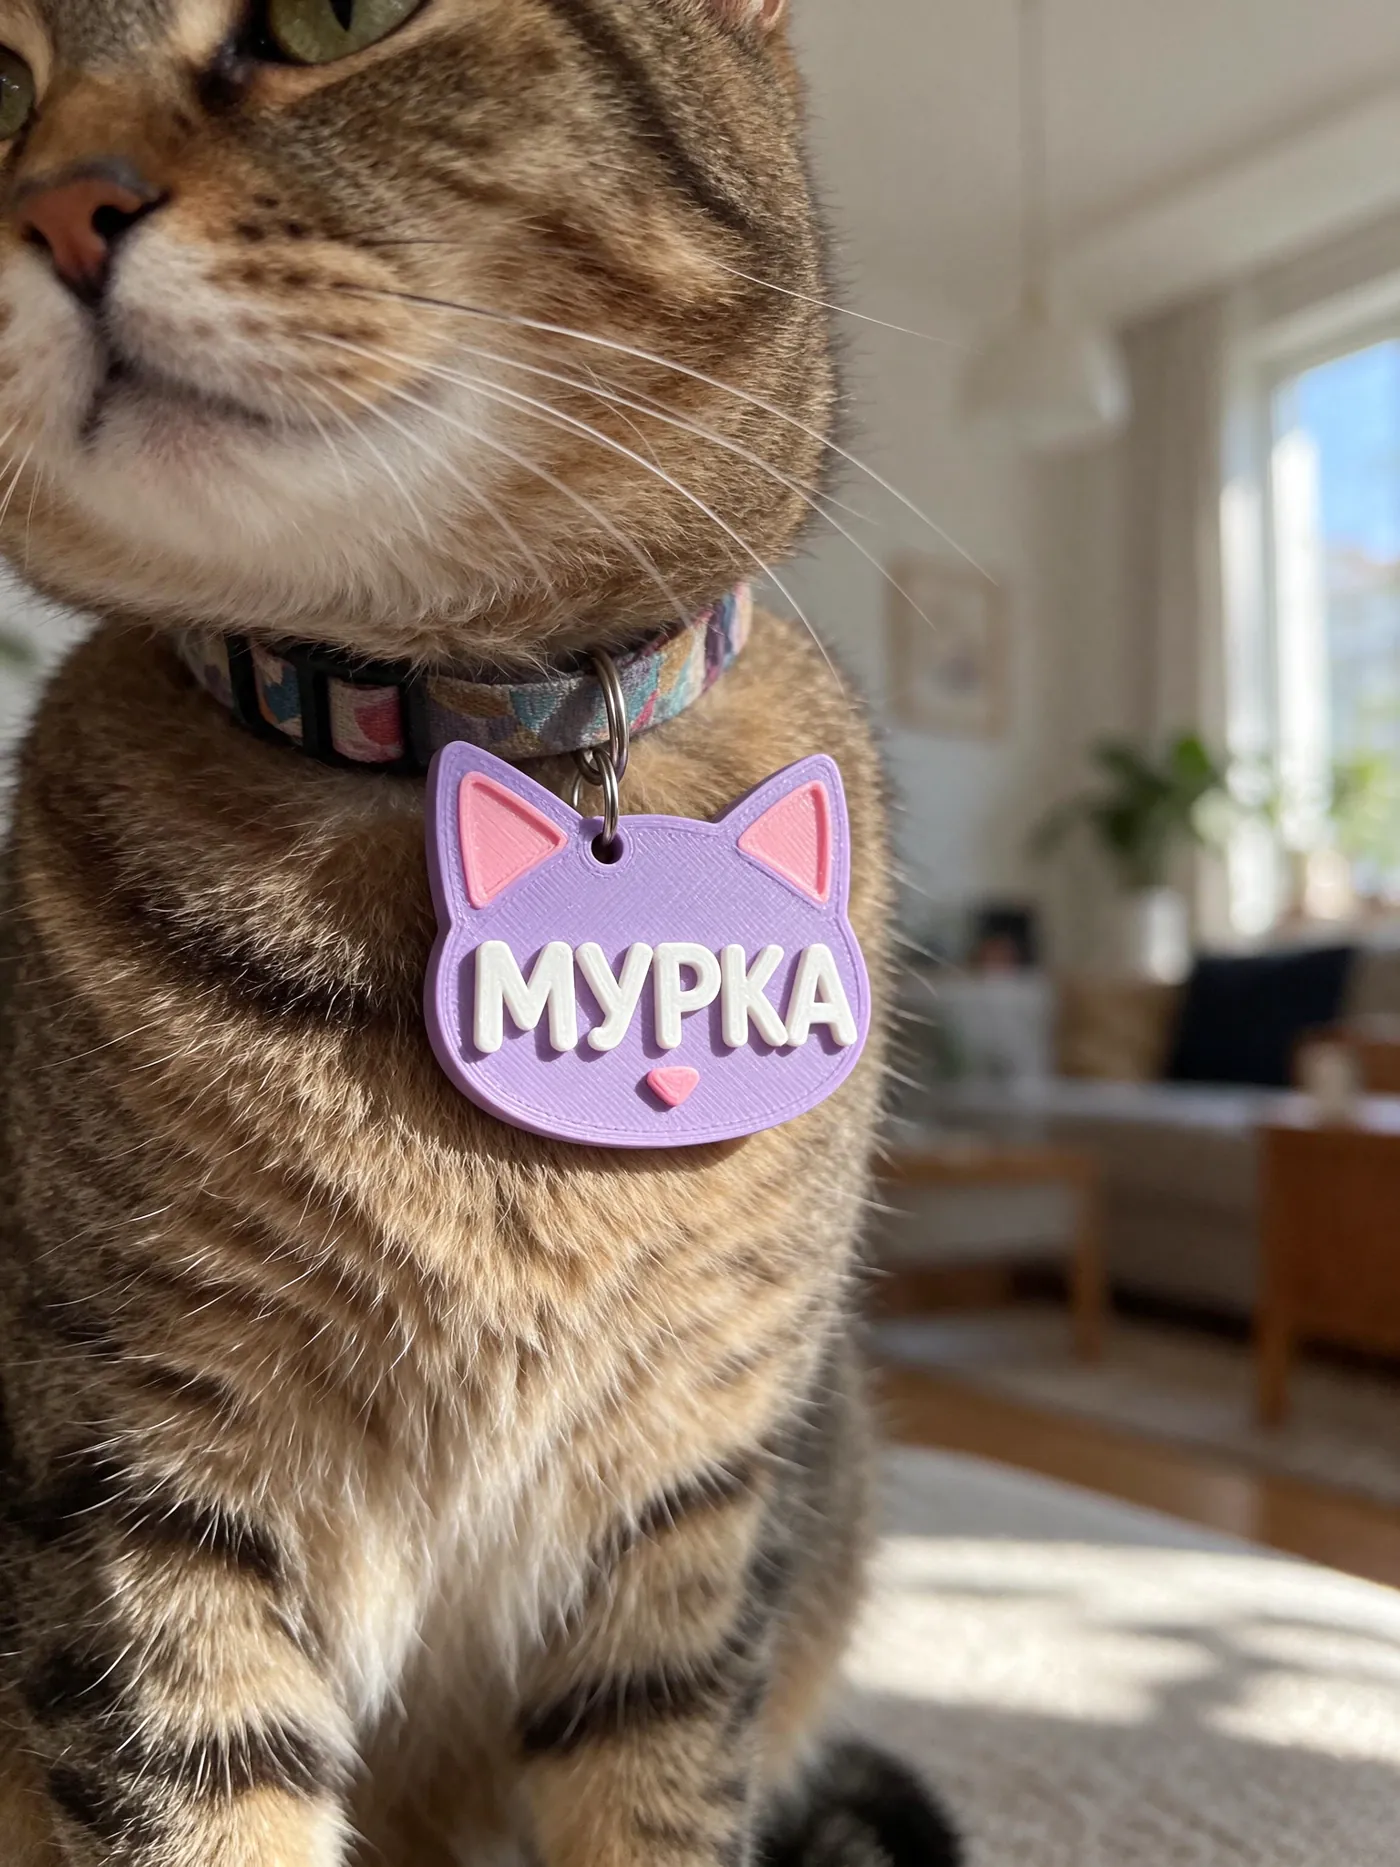
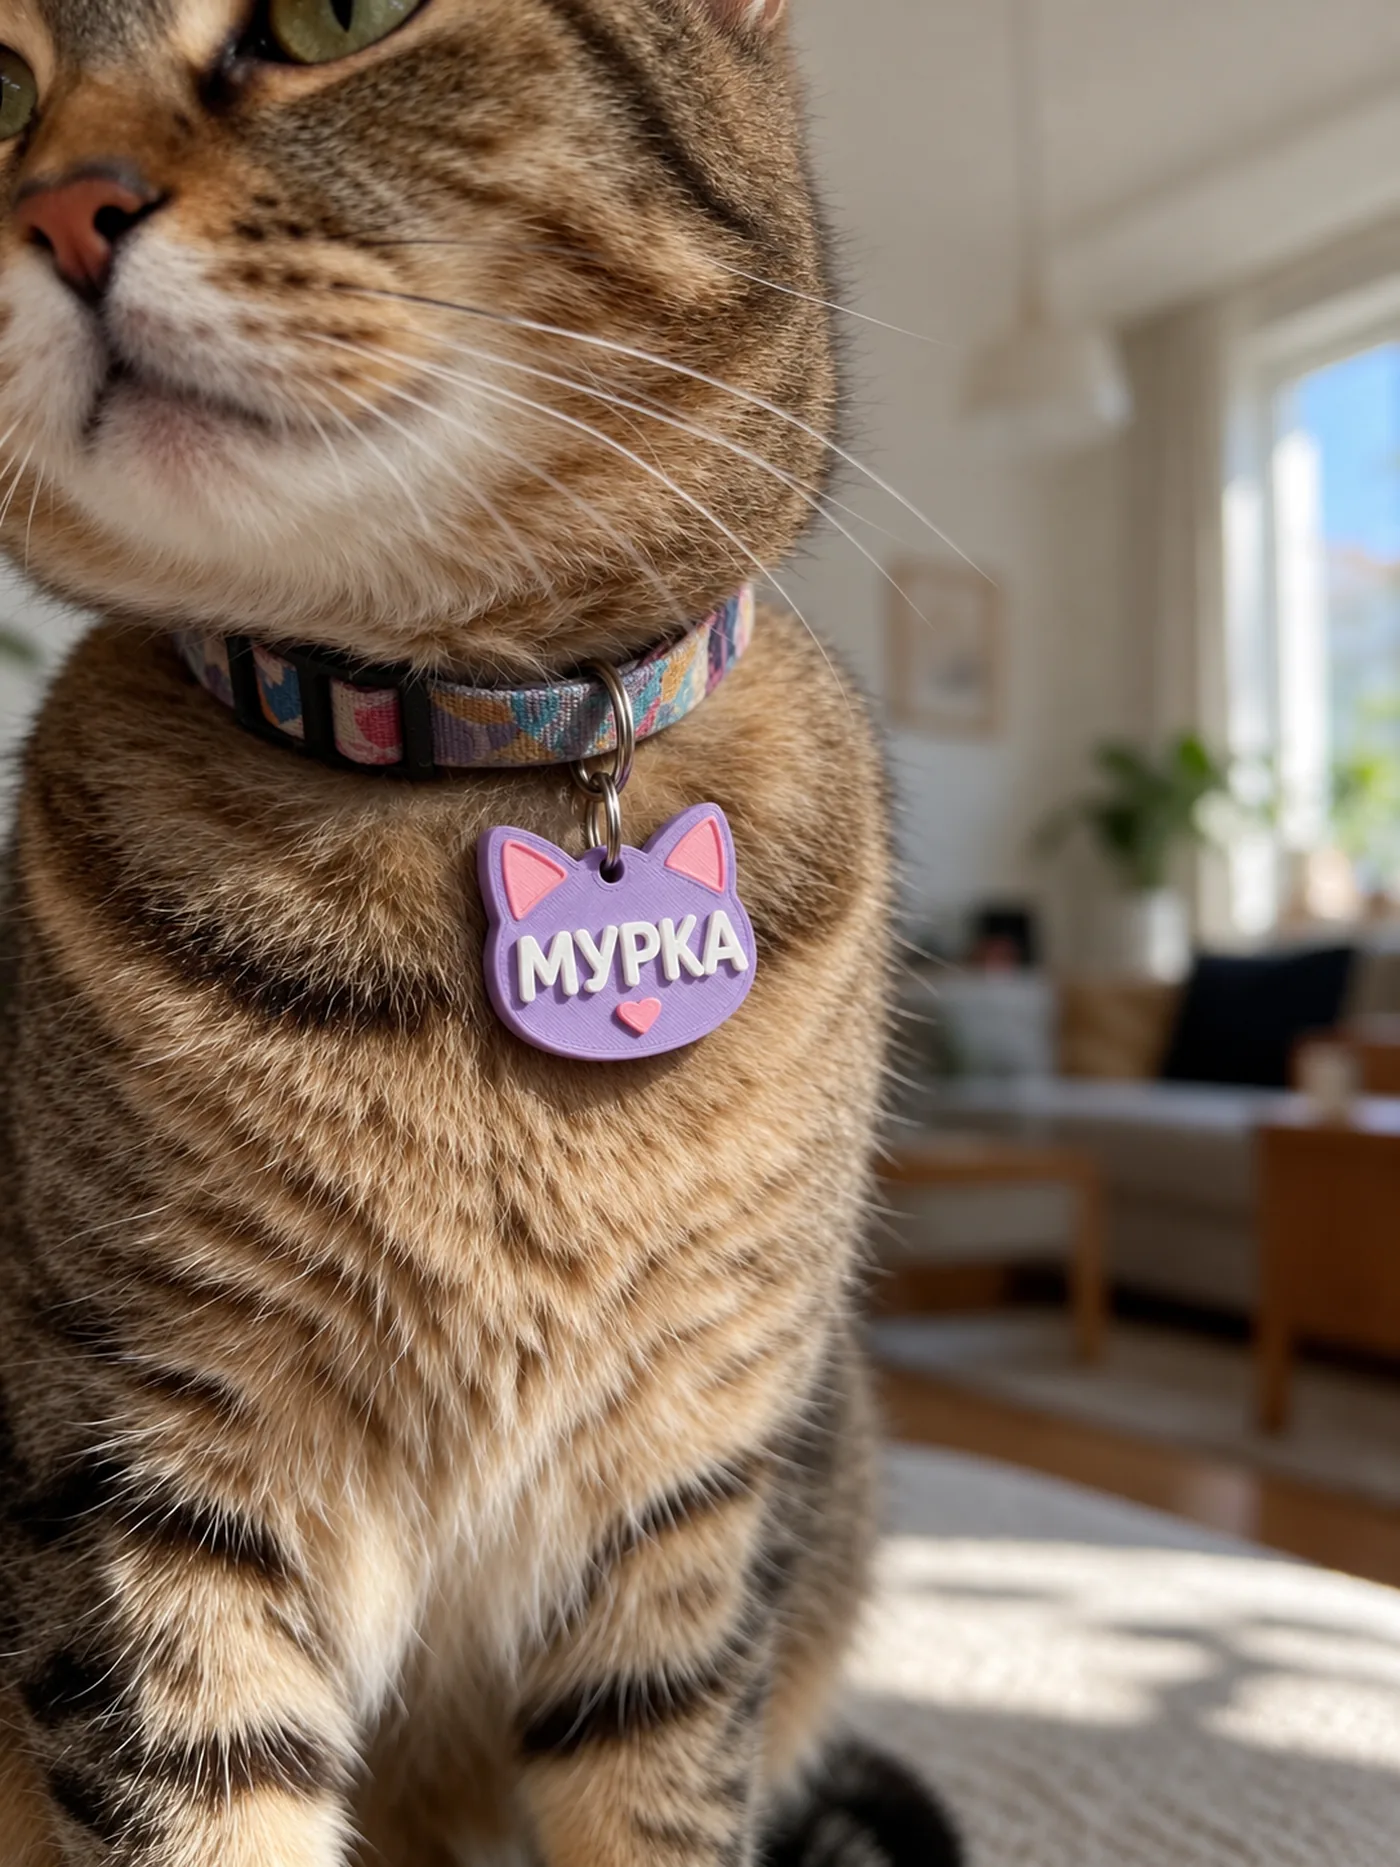
Medallions: real designs on the homepage, natural pet photos, 4,10 € everywhere
- Homepage medallion photo replaced with one that shows the 10 designs we sell
  (one centred ring each), shown whole at 16:9.
- 9 pet photos redone: tag at a realistic size, hanging from the collar ring,
  same design as the product.
- Medallion price comes from TAG_PRICE (4,10 €) so the homepage, product page
  siblings and /personalize match the catalogue.

Claude-Session: https://claude.ai/code/session_01FGLmkHJQ1jRMkP6nvSWdRq

diff --git a/app/data/tagDesigns.ts b/app/data/tagDesigns.ts
@@ -39,18 +39,21 @@ export interface TagDesign {
   demo: string
 }
 
+/** Medallion price (already includes the extra 10% off of Nov 2026); catalog.ts does not discount it again. */
+export const TAG_PRICE = 4.1
+
 const W = '#fffdf8'
 const single = (pairs: [string, string][]): Colourway[] => pairs.map(([name, a]) => ({ name, c: { a, t: W } }))
 
 export const tagDesigns: TagDesign[] = [
   {
-    id: 'balonche', slug: 'medalyon-s-ime-balonche', name: 'Балонче', kind: 'bubble', price: 4.5, photos: 'name-tag', demo: 'Балкан',
+    id: 'balonche', slug: 'medalyon-s-ime-balonche', name: 'Балонче', kind: 'bubble', price: TAG_PRICE, photos: 'name-tag', demo: 'Балкан',
     tagline: 'Изрязан по самото име.', description: 'Медальон във формата на самото име: дебели заоблени букви в цвят по избор, бели изпъкнали букви отгоре и халка за нашийника.',
     layers: [], hole: [0, 0, 0], text: [0, 0, 0, 0],
     colourways: single([['Салвия', '#7f9a72'], ['Розово', '#e7a3b4'], ['Теракота', '#c4603f'], ['Масло', '#ecc85a'], ['Лавандула', '#a993d6'], ['Мъх', '#4c6a3e'], ['Небе', '#7fb3d9'], ['Бордо', '#8a2a35']]),
   },
   {
-    id: 'dyga', slug: 'medalyon-s-ime-daga', name: 'Дъга', kind: 'rainbow', price: 4.5, badge: 'Многоцветен', photos: 'tag-dyga', demo: 'Луна',
+    id: 'dyga', slug: 'medalyon-s-ime-daga', name: 'Дъга', kind: 'rainbow', price: TAG_PRICE, badge: 'Многоцветен', photos: 'tag-dyga', demo: 'Луна',
     tagline: 'Всяка буква в свой цвят.', description: 'Името е изрязано като балонче с кремав кант, а всяка буква е в различен пастелен цвят. Най-веселият медальон в колекцията.',
     layers: [], hole: [0, 0, 0], text: [0, 0, 0, 0],
     colourways: [
@@ -60,7 +63,7 @@ export const tagDesigns: TagDesign[] = [
     ],
   },
   {
-    id: 'kokalche', slug: 'medalyon-s-ime-kokalche', name: 'Кокалче', kind: 'shape', price: 4.5, photos: 'tag-bone', demo: 'Балкан',
+    id: 'kokalche', slug: 'medalyon-s-ime-kokalche', name: 'Кокалче', kind: 'shape', price: TAG_PRICE, photos: 'tag-bone', demo: 'Балкан',
     tagline: 'Класиката, в два цвята.', description: 'Кокалче с контрастен кант по ръба и бели изпъкнали букви. Изработено в два цвята, така че кантът е част от медальона, а не боя.',
     layers: [
       { slot: 'b', circles: [[78, 92, 56], [78, 188, 56], [322, 92, 56], [322, 188, 56], [200, 64, 26]], rects: [[74, 80, 252, 120, 26]], merge: 10 },
@@ -75,7 +78,7 @@ export const tagDesigns: TagDesign[] = [
     ],
   },
   {
-    id: 'lapichka', slug: 'medalyon-s-ime-lapichka', name: 'Лапичка', kind: 'shape', price: 4.5, photos: 'tag-paw', demo: 'Луна',
+    id: 'lapichka', slug: 'medalyon-s-ime-lapichka', name: 'Лапичка', kind: 'shape', price: TAG_PRICE, photos: 'tag-paw', demo: 'Луна',
     tagline: 'С розови възглавнички.', description: 'Лапа с четири пръстчета и голяма възглавничка, в контрастен цвят върху основата. Името е върху възглавничката.',
     layers: [
       { slot: 'a', circles: [[88, 96, 46], [158, 52, 48], [242, 52, 48], [312, 96, 46], [200, 38, 28]], paths: ['M200 108 C 306 108 358 170 348 218 C 338 268 272 268 200 256 C 128 268 62 268 52 218 C 42 170 94 108 200 108 Z'], merge: 16 },
@@ -90,7 +93,7 @@ export const tagDesigns: TagDesign[] = [
     ],
   },
   {
-    id: 'surce', slug: 'medalyon-s-ime-sartse', name: 'Сърце', kind: 'shape', price: 4.5, photos: 'tag-heart', demo: 'Мила',
+    id: 'surce', slug: 'medalyon-s-ime-sartse', name: 'Сърце', kind: 'shape', price: TAG_PRICE, photos: 'tag-heart', demo: 'Мила',
     tagline: 'Сърце в сърце.', description: 'Пухкаво сърце с кант в друг цвят. Двата цвята са изработени заедно, а белите букви стоят отгоре.',
     layers: [
       { slot: 'b', circles: [[200, 46, 26]], paths: ['M200 268 C 146 230 36 174 36 96 C 36 40 82 10 130 10 C 166 10 188 30 200 54 C 212 30 234 10 270 10 C 318 10 364 40 364 96 C 364 174 254 230 200 268 Z'], merge: 4 },
@@ -105,7 +108,7 @@ export const tagDesigns: TagDesign[] = [
     ],
   },
   {
-    id: 'oblache', slug: 'medalyon-s-ime-oblache', name: 'Облаче', kind: 'shape', price: 4.5, badge: 'Многоцветен', photos: 'tag-cloud', demo: 'Роки',
+    id: 'oblache', slug: 'medalyon-s-ime-oblache', name: 'Облаче', kind: 'shape', price: TAG_PRICE, badge: 'Многоцветен', photos: 'tag-cloud', demo: 'Роки',
     tagline: 'С дъга зад него.', description: 'Пухкаво облаче, зад което надниква дъга в три цвята. Буквите са в цвета на небето.',
     layers: [
       { slot: 'b', paths: ['M44 206 A 156 156 0 0 1 356 206'], line: 28 },
@@ -121,7 +124,7 @@ export const tagDesigns: TagDesign[] = [
     ],
   },
   {
-    id: 'kotence', slug: 'medalyon-s-ime-kotentse', name: 'Котенце', kind: 'shape', price: 4.5, badge: 'Многоцветен', photos: 'tag-cat', demo: 'Мурка',
+    id: 'kotence', slug: 'medalyon-s-ime-kotentse', name: 'Котенце', kind: 'shape', price: TAG_PRICE, badge: 'Многоцветен', photos: 'tag-cat', demo: 'Мурка',
     tagline: 'С розови ушички и носле.', description: 'Котешка главичка с вътрешни ушички и носле в контрастен цвят. Направено за котките, но и кучетата не се оплакват.',
     layers: [
       { slot: 'a', circles: [[200, 168, 108]], paths: ['M104 140 L 98 34 Q 98 20 112 26 L 196 74 Z', 'M296 140 L 302 34 Q 302 20 288 26 L 204 74 Z'], merge: 14 },
@@ -136,7 +139,7 @@ export const tagDesigns: TagDesign[] = [
     ],
   },
   {
-    id: 'ribka', slug: 'medalyon-s-ime-ribka', name: 'Рибка', kind: 'shape', price: 4.5, badge: 'Многоцветен', photos: 'tag-fish', demo: 'Писи',
+    id: 'ribka', slug: 'medalyon-s-ime-ribka', name: 'Рибка', kind: 'shape', price: TAG_PRICE, badge: 'Многоцветен', photos: 'tag-fish', demo: 'Писи',
     tagline: 'Любимото на всяка котка.', description: 'Рибка с ивици, опашка и перка в контрастен цвят и око отпред. Името е по тялото.',
     layers: [
       { slot: 'a', paths: ['M30 140 C 60 60 200 40 300 120 L 372 64 Q 388 56 386 76 L 380 140 L 386 204 Q 388 224 372 216 L 300 160 C 200 240 60 220 30 140 Z'], merge: 10 },
@@ -153,7 +156,7 @@ export const tagDesigns: TagDesign[] = [
     ],
   },
   {
-    id: 'gabka', slug: 'medalyon-s-ime-gabka', name: 'Гъбка', kind: 'shape', price: 4.5, badge: 'Многоцветен', photos: 'tag-mushroom', demo: 'Бони',
+    id: 'gabka', slug: 'medalyon-s-ime-gabka', name: 'Гъбка', kind: 'shape', price: TAG_PRICE, badge: 'Многоцветен', photos: 'tag-mushroom', demo: 'Бони',
     tagline: 'Червена шапка, бели точки.', description: 'Горска гъбка в три цвята: шапка, точки и пънче. Името е изписано върху шапката.',
     layers: [
       { slot: 'b', rects: [[136, 140, 128, 124, 40]], merge: 6 },
@@ -168,7 +171,7 @@ export const tagDesigns: TagDesign[] = [
     ],
   },
   {
-    id: 'yagoda', slug: 'medalyon-s-ime-yagoda', name: 'Ягода', kind: 'shape', price: 4.5, badge: 'Многоцветен', photos: 'tag-berry', demo: 'Бери',
+    id: 'yagoda', slug: 'medalyon-s-ime-yagoda', name: 'Ягода', kind: 'shape', price: TAG_PRICE, badge: 'Многоцветен', photos: 'tag-berry', demo: 'Бери',
     tagline: 'Най-сладкото име вкъщи.', description: 'Ягода със семенца и зелени листенца в три цвята. Халката минава през листата.',
     layers: [
       { slot: 'a', paths: ['M200 272 C 118 244 36 172 42 110 C 48 62 98 44 140 54 C 172 38 228 38 260 54 C 302 44 352 62 358 110 C 364 172 282 244 200 272 Z'], merge: 4 },

diff --git a/app/pages/index.vue b/app/pages/index.vue
@@ -229,8 +229,8 @@ onBeforeUnmount(() => { ctx?.revert(); ScrollTrigger.refresh() })
 .names-top { display: flex; justify-content: space-between; align-items: end; gap: 24px 48px; flex-wrap: wrap; margin-bottom: 32px; }
 .names-top .lead { margin-top: 16px; max-width: 30em; }
 .cta-row { display: flex; gap: 16px; align-items: center; flex-wrap: wrap; }
-.names-hero { display: block; border-radius: 32px; overflow: hidden; aspect-ratio: 16/7; background: #c9a37a; }
-.names-hero img { width: 100%; height: 100%; object-fit: cover; object-position: 70% 50%; transition: transform 1.4s var(--ease); }
+.names-hero { display: block; border-radius: 32px; overflow: hidden; aspect-ratio: 16/9; background: #c9a37a; }
+.names-hero img { width: 100%; height: 100%; object-fit: cover; object-position: 80% 50%; transition: transform 1.4s var(--ease); }
 .names-hero:hover img { transform: scale(1.03); }
 .names-row { display: grid; grid-template-columns: repeat(6, 1fr); gap: 16px; margin-top: 16px; }
 .medal { border-radius: 20px; overflow: hidden; background: var(--paper); }

diff --git a/app/data/catalog.ts b/app/data/catalog.ts
@@ -236,6 +236,7 @@ for (const d of tagDesigns) {
 const EXTRA_OFF = 0.9
 const extra = (n: number) => Math.round(n * EXTRA_OFF * 10) / 10
 for (const p of products) {
+  if (p.category === 'medalyoni-s-ime') continue // priced in tagDesigns.ts (TAG_PRICE)
   if (p.price != null) p.price = extra(p.price)
   if (p.sizes) p.sizes = p.sizes.map(s => ({ ...s, price: extra(s.price) }))
 }
